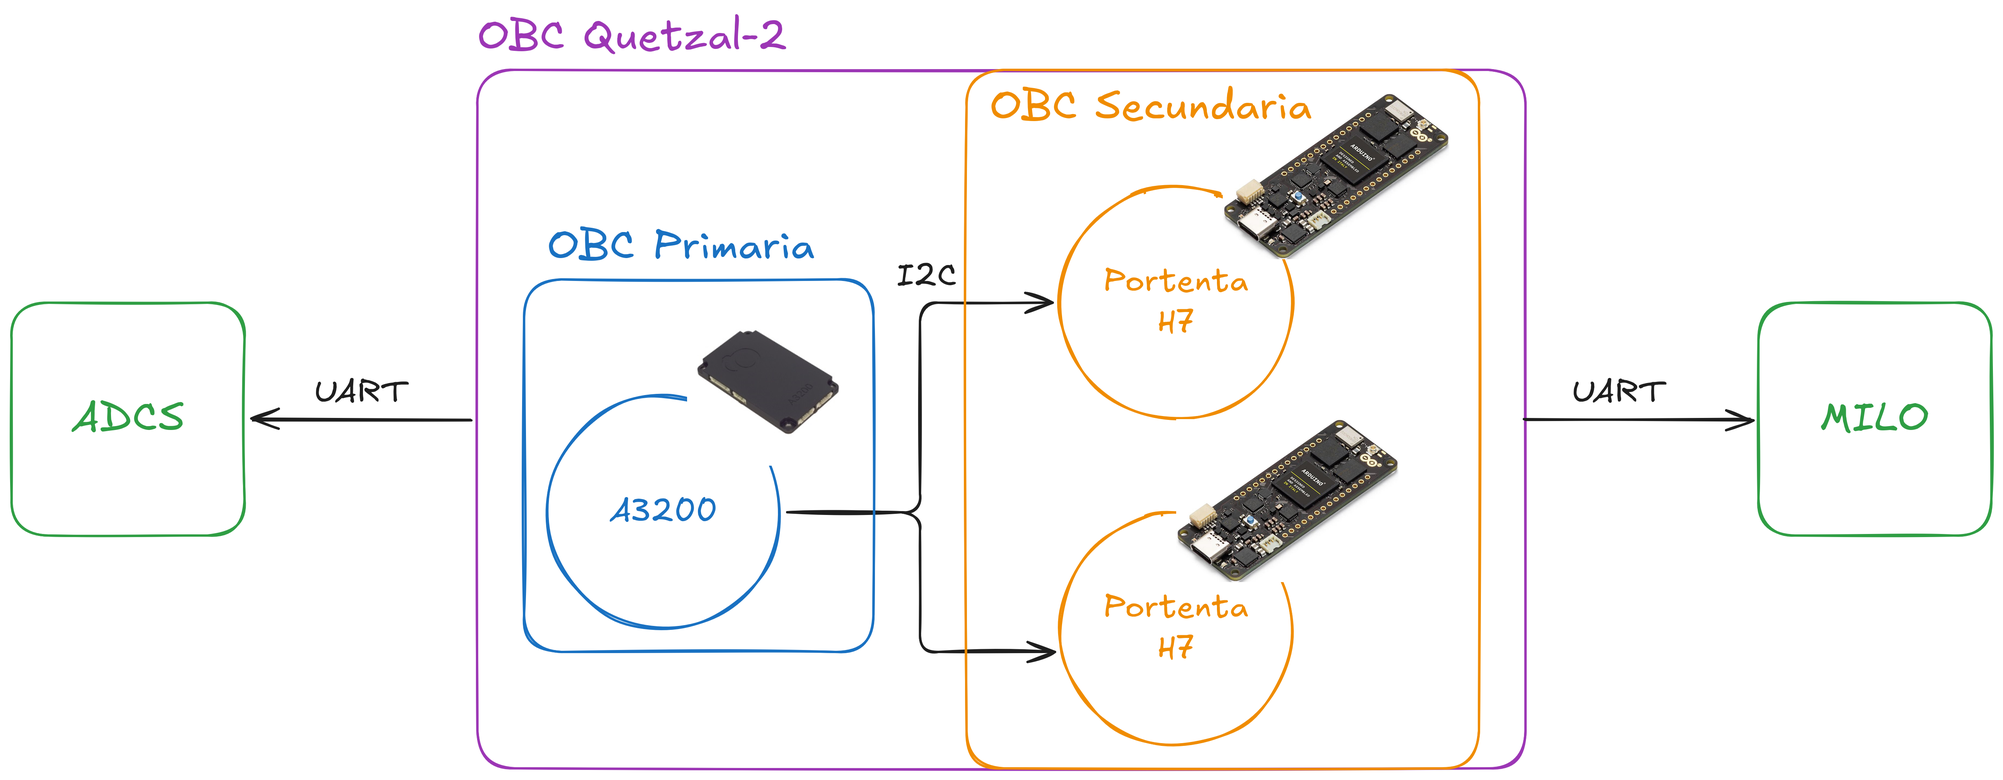
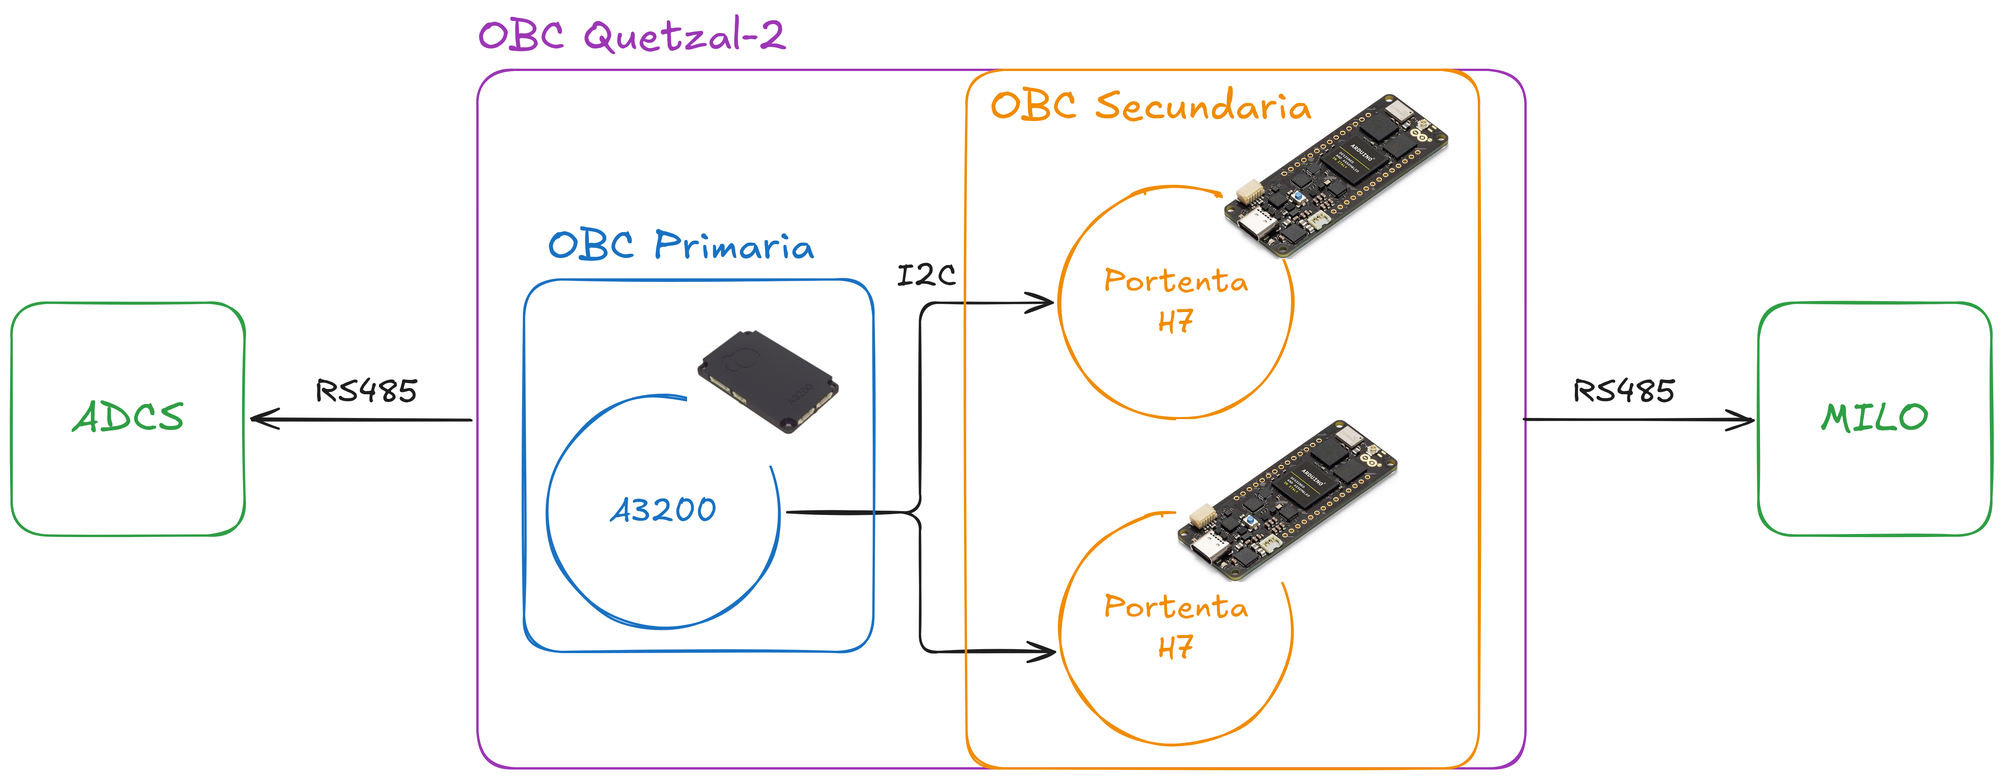
fix: kuk fixes

Changed region(s): [[0.468, 0.9871, 0.624, 1.0], [0.78, 0.4627, 0.8424, 0.5244], [0.156, 0.4627, 0.2184, 0.5244]]

diff --git a/src/latex/i-marco_teorico.tex b/src/latex/i-marco_teorico.tex
@@ -41,7 +41,7 @@ El Quetzal-2 (\ref{fig:prototype_quetzal2}) es el segundo proyecto aeroespacial 
   \item Una OBC que permite la comunicación entre todos estos subsistemas.
 \end{itemize}
 
-  En el caso de Quetzal-2, la OBC realmente se divide en 2, una principal y una secundaria. La OBC principal, es la misma que se utilizó en Quetzal-1, la Gomspace Nanomind A3200 \cite{ayerdi_2023}, esta computadora fue especialmente diseñada para misiones espaciales, como sensores integrados para control de altitud y protecciones especiales contra radiación \cite{gomspace_2026}.
+  En el caso de Quetzal-2, la OBC realmente se divide en 2, una principal y una secundaria. La OBC principal, es la misma que se utilizó en Quetzal-1, la Gomspace Nanomind A3200 \cite{ayerdi_2023}, esta computadora fue especialmente diseñada para misiones espaciales, como sensores integrados para control de actitud y protecciones especiales contra radiación \cite{gomspace_2026}.
 
   La OBC secundaria, la cual es diseñada localmente, está compuesta por una pareja de Portentas H7 Lite, ambas cuentan con dos cores de procesamiento y 8MB de SDRAM \cite{arduino_2026}. La OBC secundaria, al igual que la primaria, necesita gestionar la comunicación entre los distintos subsistemas, por lo que se le considera el cerebro del satélite \cite{lwabanji_wilkinson_biermann_bellville_2013} y según \cite{stras2003design} necesita cumplir con las siguientes tareas:
 \begin{itemize}
@@ -63,14 +63,14 @@ El Quetzal-2 (\ref{fig:prototype_quetzal2}) es el segundo proyecto aeroespacial 
   \label{fig:obc_components}
 \end{figure}
 
-  \section{Comunicación Serial: I2C y UART}
+  \section{Comunicación Serial: I2C y RS485}
 
   Existen varias interfaces seriales de comunicación que se pueden utilizar para la intercomunicación de microcontroladores, muchas aunque desarrolladas para una aplicación en específico se han vuelto universales, RS485 e I2C caen en esta categoría \cite{hung2020flexible}. Dentro del Quetzal-2 se utilizan estos dos protocolos para la comunicación interna entre sus subsistemas, RS485 es especialmente popular debido a que permite conectar múltiples puntos de control utilizando un bus serial, además de ser un protocolo de comunicación probado en producción por años lo que lo hace una opción segura cuanto menos \cite{sastry2015building}. Mientras que I2C facilita la comunicación entre microcontroladores utilizando un modelo de maestro esclavo, en donde solo el maestro puede iniciar la comunicación \cite{carletti2007comunicacion}.
 
   Dentro de Quetzal-2, los protocolos se utilizan para los siguientes propósitos:
 	\begin{itemize}
-\item {RS485: Comunica la OBC primaria y secundaria con el resto de subsistemas del satélite, es decir: \textit{Payload} MILO, \textit{ADCS}, \textit{ADM}, etc. Se utiliza el protocolo de \textit{hardware} UART para su implementación.}
-	\item {I2C: Se reserva únicamente para la comunicación entre la OBC primaria y la OBC secundaria, siendo la OBC primaria la maestra y la OBC secundaria la esclava. Esta decisión es clave para el funcionamiento de la arquitectura de \textit{handover}.}
+		\item {RS485: Comunica la OBC primaria y secundaria con el resto de subsistemas del satélite, es decir: \textit{Payload} MILO, \textit{ADCS}, \textit{EPS}, \textit{Payload} LORA, etc. Se utiliza el protocolo de \textit{hardware} UART para su implementación.}
+	\item {I2C: Se utiliza para la comunicación entre la OBC primaria y la OBC secundaria, siendo la OBC primaria la maestra y la OBC secundaria la esclava. Esta decisión es clave para el funcionamiento de la arquitectura de \textit{handover}.}
 	\end{itemize}
 
 \subsection{UART}
@@ -88,7 +88,7 @@ El Quetzal-2 (\ref{fig:prototype_quetzal2}) es el segundo proyecto aeroespacial 
 \end{figure}
 
   \subsection{RS485}
-  El protocolo RS485 se basa en el protocolo RS422, su principal ventaja con respecto a RS422 es que permite la conexión de hasta 32 dispositivos (tanto transmisores como receptores) mientras que RS422 solamente admite 10 receptores y un transmisor. RS485 hereda de RS422 su alta resistencia al ruido, ya que utiliza una corriente diferencial entre dos cables para transmitir la señal, cuya conexión se ve en la \ref{fig:rs485_pins}. Lo que significa que un byte que se transmite no es un pulso de corriente dentro de un solo cable, sino una diferencia de corriente entre ambas líneas de conexión del protocolo, el \ref{tab:rs485_truth_table} muestra una tabla de verdad con la entrada y cómo se transmite por los cables. Al protocolo solamente le interesa la diferencia entre ambas líneas, por lo que mientras pueda interpretar a una línea como 0 y a otra como 1 seguirá funcionando, lo que lo hace altamente resiliente a ruido \cite{sonnenberg2018serial}.
+  El protocolo RS485 se basa en el protocolo RS422, su principal ventaja con respecto a RS422 es que permite la conexión de hasta 32 dispositivos (tanto transmisores como receptores) mientras que RS422 solamente admite 10 receptores y un transmisor. RS485 hereda de RS422 su alta resistencia al ruido, ya que utiliza un voltaje diferencial entre dos cables para transmitir la señal, cuya conexión se ve en la \ref{fig:rs485_pins}. Lo que significa que un byte que se transmite no es un pulso de corriente dentro de un solo cable, sino una diferencia de corriente entre ambas líneas de conexión del protocolo, el \ref{tab:rs485_truth_table} muestra una tabla de verdad con la entrada y cómo se transmite por los cables. Al protocolo solamente le interesa la diferencia entre ambas líneas, por lo que mientras pueda interpretar a una línea como 0 y a otra como 1 seguirá funcionando, lo que lo hace altamente resiliente a ruido \cite{sonnenberg2018serial}.
 
   % #figure(
   %   image("./images/RS485_Pins.png"),
@@ -131,8 +131,8 @@ El Quetzal-2 (\ref{fig:prototype_quetzal2}) es el segundo proyecto aeroespacial 
   Al igual que RS485, I2C es un protocolo de comunicación serial entre dispositivos, la transmisión de datos es serial y sincrónica, lo que implica el paso de un pulso de reloj para sincronizar la salida y entrada de los datos entre los dispositivos. Requiere de dos líneas de conexión \cite{carletti2007comunicacion}:
 
 	\begin{itemize}
-\item {SDA (\textit{System Data}): Se utiliza para transmitir los datos entre los dispositivos.}
-  \item {SCL (\textit{System Clock}): Se utiliza para transmitir los pulsos del reloj. Sincronizando el sistema.}
+\item {SDA (\textit{Serial Data}): Se utiliza para transmitir los datos entre los dispositivos.}
+  \item {SCL (\textit{Serial Clock}): Se utiliza para transmitir los pulsos del reloj. Sincronizando el sistema.}
 	\end{itemize}
 
   Un ejemplo de conexión se puede apreciar en la \ref{fig:i2c_pins}.
@@ -184,7 +184,7 @@ El Quetzal-2 (\ref{fig:prototype_quetzal2}) es el segundo proyecto aeroespacial 
   \item {\textbf{Todos los ciclos deben tener un límite superior fijo}. Sin recursión, y con ciclos que siguen un límite fijo de iteraciones se previene en su totalidad rutinas que se ejecutan de forma indefinida. Esta regla no aplica para rutinas que deben ser forzosamente de terminación indeterminada, como la espera de nuevos comandos de la estación terrena (GCS por sus siglas en inglés).}
   \item {\textbf{No alojar memoria dinámica luego de la inicialización}. La alojación de memoria dinámica impacta negativamente en el rendimiento del sistema, además de que tiene un comportamiento notablemente difícil de predecir con análisis estático. Esta regla fuerza al programador a usar memoria estática alojada al declarar variables en el stack, si se combina con las reglas anteriores el código termina siendo legible y sencillo, lo que es excelente para analizadores estáticos que buscan probar que un programa se comportará como esperamos.}
   \item {\textbf{No más de 60 líneas de código por función}. Funciones extremadamente largas son una señal de código pobremente arquitecturizado.}
-  \item {\textbf{Cada función debe tener un promedio de dos \textit{assertions}}. La NASA recomienda utilizar aserciones en el código para probar condiciones de ejecución tanto antes como después de correr una función. Una aserción siempre revisa una condición, y detiene el programa en caso de que la condición no se cumpla, son especialmente útiles si se combinan con pruebas unitarias.}
+  \item {\textbf{Cada función debe tener un promedio de dos \textit{assertions}}. La NASA recomienda utilizar aserciones en el código para probar condiciones de ejecución tanto antes como después de correr una función. Una aserción siempre revisa una condición, en dado caso la condición falle se toma una acción de recuperación que se programó explícitamente para manejar este caso. Las aserciones deben ser libres de efectos secundarios.}
   \item {\textbf{Declara todos los objetos de tipo data en el tamaño mínimo posible de \textit{scope}}. Esta regla simplifica la depuración del código cuando ocurre una falla, puesto que es obvio que una variable que no se encuentra en el scope del código que falla no tiene ninguna relación con el error en sí. Por lo tanto queremos minimizar la cantidad de variables dentro del scope de cada rutina, limitando así, los lugares en donde se puede corromper estado y afectar en la ejecución de nuestro programa.}
   \item {\textbf{Todos los parámetros de retorno deben ser revisados por la función que los llamó}. \textbf{Todas las funciones deben revisar la validez de los parámetros proveídos}. Las interfaces con las que interactuamos los programadores están plagadas de funciones que puede que funcionen como esperamos o no, generalmente tienen una forma de reportar un error. Si una función debe ejecutarse solamente cuando el valor de retorno de otra función es exitoso, entonces es indispensable que este valor de retorno se revise, ese es el corazón de esta regla.}
   \item {\textbf{El uso del preprocesador de C debe estar limitado a inclusión de \textit{header files} y definiciones sencillas}. El preprocesador de C puede fácilmente ofuscar el código y confundir a analizadores estáticos, por lo que la NASA no recomienda su uso más allá de inclusiones sencillas.}
@@ -199,7 +199,7 @@ El Quetzal-2 (\ref{fig:prototype_quetzal2}) es el segundo proyecto aeroespacial 
 
   \subsubsection{Fuzzing}
 
-  Richard Hipp, uno de los creadores de SQLite, cuenta en su experiencia como desarrollador de este software que al alcanzar 100\% \textit{branch coverage}, dejó de recibir reportes de bugs de sus usuarios por varios años \cite{software_should_work_2026}. Para entender esta métrica es importante entender primero qué es una "rama". En programación se asume que todas las instrucciones ejecutan una luego de la otra, sin embargo esto no siempre es cierto, es común en aplicaciones que ciertas instrucciones sean ejecutadas solamente cuando ciertas condiciones se cumplen. Esto genera caminos de instrucciones por los que el procesador puede o no pasar, todo el conjunto de estos caminos generan un árbol de posibles ejecuciones del programa en donde, según qué condiciones se cumplan, el procesador ejecutará una rama u otra \cite{elmasry2013branchless}. La \ref{fig:branch_simple} demuestra cómo se vería este árbol de ejecución para un programa sencillo.
+  Richard Hipp, uno de los creadores de SQLite, cuenta en su experiencia como desarrollador de este software que al alcanzar 100\% \textit{branch coverage}, dejó de recibir reportes de bugs de sus usuarios por varios años \cite{software_should_work_2026}. Para entender esta métrica es importante entender primero qué es una "rama". En programación se asume que todas las instrucciones ejecutan una luego de la otra, sin embargo esto no siempre es cierto, es común en aplicaciones que ciertas instrucciones sean ejecutadas solamente cuando ciertas condiciones se cumplen. Esto genera bloques de instrucciones por los que el procesador puede o no pasar, todo el conjunto de estos bloques generan un árbol de posibles ejecuciones del programa en donde, según qué condiciones se cumplan, el procesador ejecutará una rama u otra \cite{elmasry2013branchless}. La \ref{fig:branch_simple} demuestra cómo se vería este árbol de ejecución para un programa sencillo.
 
   % #figure(
   %   image("./images/Ramas_Simple.png", width: 60%),
@@ -212,7 +212,7 @@ El Quetzal-2 (\ref{fig:prototype_quetzal2}) es el segundo proyecto aeroespacial 
   \label{fig:branch_simple}
 \end{figure}
 
-  Éste árbol es justamente lo que programas como AFL++ exploran y es la segunda estrategia que usaron en SQLite para aliviar los bugs \cite{software_should_work_2026}. Su objetivo es variar de forma automática varios inputs del programa, lo que a su vez varía las condicinoes de ejecución de ciertas ramas, reportando solamente las ramas que hacen que el programa crashee, lo que a su vez ayuda a descubrir caminos que rara vez son ejecutados normalmente \cite{bohme2020fuzzing}. Hay dos tipos principales de \textit{fuzzing}:
+  Éste árbol es justamente lo que programas como AFL++ exploran y es la segunda estrategia que usaron en SQLite para aliviar los bugs \cite{software_should_work_2026}. Su objetivo es variar de forma automática varios inputs del programa, lo que a su vez varía las condicinoes de ejecución de ciertas ramas, reportando solamente las ramas que hacen que el programa falle alguno de los chequeos que el programador defina, lo que a su vez ayuda a descubrir caminos que rara vez son ejecutados normalmente \cite{bohme2020fuzzing}. Hay dos tipos principales de \textit{fuzzing}:
 	\begin{itemize}
 \item Mutacional: La campaña de fuzzing inicia con varias "semillas". Luego estas semillas son modificadas para generar nuevas entradas al programa.
 		\item Generacional: Las entradas son generadas desde 0, si se especifica un formato entonces se generan entradas que cumplan ese formato. Solamente las entradas que más profundo lleguen a explorar el sistema son evolucionadas a la siguiente ronda \cite{bohme2020fuzzing}.

diff --git a/src/latex/j-capitulos.tex b/src/latex/j-capitulos.tex
@@ -313,3 +313,30 @@ Esta arquitectura de la \ref{fig:hexagonal_arch} nos permitió varias bondades:
   \caption{\textit{Coverage Report} del fuzzing del core de la OBC.}
   \label{fig:obc_coverage}
 \end{figure}
+
+\newpage
+\chapter{Discusión de Resultados}
+Como se puede apreciar en la \ref{fig:laptop_test}, se realiza el camino sin errores de una rutina de handover completa, desde que la OBC primaria solicita el traslado de poder, pasando por el inicio de la tarea de MILO en donde se toma la fotografía y finalizando con el comando de abortar de la OBC primaria.
+
+Toda esa rutina se ejecutó dentro de un ambiente simulado en la computadora, y cada una de las respuestas y acciones que decidía tomar la OBC secundaria fue analizada por la prueba, solamente retornando éxito si todos los comandos recibidos y enviados seguían la especificación del protocolo interno. Es decir, la prueba revisó que luego de recibir el comando \texttt{BEGIN\_HANDOVER} desde la computadora principal, la OBC secundaria respondiera con \texttt{BEGIN\_HANDOVER\_ACK}. No solo se limitó a revisar el estado, sino que además revisa cada uno de los \textit{bytes} de la respuesta y el largo configurado por el \textit{buffer} de salida.
+
+Nótese el cambio de estados dentro de la OBC secundaria que se puede apreciar en los \textit{logs}, iniciando en \texttt{IDLE} para transicionar a \texttt{HANDOVER\_IDLE} y finalmente a \texttt{IDLE} de nuevo. Estos son los estados principales de la OBC secundaria, mientras que el estado interno de la tarea es \texttt{MILO\_UNSTARTED}. La combinación de estos dos estados (\texttt{IDLE}, \texttt{MILO\_UNSTARTED}) representan el modo de operación de arranque dentro del Producto Mínimo Viable (MVP por sus siglas en inglés) de la OBC secundaria. Para luego transicionar al estado nominal (\texttt{HANDOVER\_IDLE}, \texttt{MILO\_UNSTARTED}), para finalmente llegar al estado de toma de fotografía (\texttt{HANDOVER\_IDLE}, \texttt{MILO\_BEGIN}). La \ref{fig:obc_states} muestra en forma de diagrama estas transiciones:
+
+% #figure(
+%   image("./images/OBC_States.png", width: 80%),
+%   caption: [Estados de la OBC secundaria de estados finitos.]
+% ) <obc_states>
+\begin{figure}[htbp]
+  \centering
+  \includegraphics[width=0.8\linewidth]{./images/OBC_States.png}
+  \caption{Estados de la OBC secundaria de estados finitos.}
+  \label{fig:obc_states}
+\end{figure}
+
+Esta es la prueba principal que se implementó, pero gracias a la arquitectura hexagonal se tiene la posibilidad de implementar muchas más que prueben casos más extraños, o simplemente probar casos de error que permitan asegurar que la OBC fallará de una manera predecible cuando se cumplan ciertas condiciones. Esto es parte de las opciones de \textit{testing} que se vieron en el capítulo \ref{sec:reliability}.
+
+Además, se utilizó AFL++ para implementar un \textit{fuzzer} básico de la rutina principal de la OBC secundaria (\ref{fig:obc_fuzzing}), en la imagen en cuestión se puede apreciar que el \textit{fuzzer} lleva corriendo apenas 3 segundos pero ya corrió más de 8900 veces la rutina principal. De las cuales ha encontrado 3 nuevas aristas pero no ha encontrado \textit{crashes} todavía. El \textit{harness} programado para esta sesión de \textit{fuzzing} es limitado, de hecho podemos ver en \ref{fig:obc_coverage} que este \textit{harness} no es particularmente bueno, puesto que solamente 5 de 180 ramas que componen la rutina principal fueron invocadas durante esta sesión. Lo cual es esperado debido a que el \textit{harness} configurado para esta prueba es una prueba de concepto, su función principal es validar que la arquitectura efectivamente se puede utilizar para pruebas avanzadas de código que verifiquen su fiabilidad.
+
+El que la prueba mostrada en la \ref{fig:laptop_test} tenga un resultado satisfactorio no significa que la OBC secundaria funcione, puesto que es un ambiente simulado dentro de la misma computadora. Por esto se realizaron pruebas con implementaciones reales de las interfaces, las cuales se pueden ver en la \ref{fig:handover_test} y la \ref{fig:command_reception}. En esta prueba se intentó solamente la comunicación entre los dos módulos de la OBC, primaria y secundaria. Como se puede ver en los \textit{logs}, la comunicación fue satisfactoria y se logró llegar al último comando de aborto del protocolo de handover.
+
+Finalmente, en la \ref{fig:milo_picture} se puede apreciar la fotografía de una prueba final con todos los subsistemas conectados utilizando las implementaciones reales de las interfaces de comunicación. La imagen se encuentra borrosa debido a la configuración de la cámara, ya que se tenía en baja calidad para limitar la cantidad de espacio que cada fotografía consumía al ser almacenada y transmitida dentro del sistema. Para ese punto de las pruebas lo importante no era la calidad de las fotografías sino que el sistema pudiera tomarla de forma autónoma.

diff --git a/src/latex/k-conclusiones.tex b/src/latex/k-conclusiones.tex
@@ -5,29 +5,3 @@
   \item Se desarrolló un producto mínimo viable del sistema de \textit{handover} entre las dos OBCs del satélite (\ref{fig:command_reception}).
 \end{itemize}
 
-\newpage
-\chapter{Discusión de Resultados}
-Como se puede apreciar en la \ref{fig:laptop_test}, se realiza el camino sin errores de una rutina de handover completa, desde que la OBC primaria solicita el traslado de poder, pasando por el inicio de la tarea de MILO en donde se toma la fotografía y finalizando con el comando de abortar de la OBC primaria.
-
-Toda esa rutina se ejecutó dentro de un ambiente simulado en la computadora, y cada una de las respuestas y acciones que decidía tomar la OBC secundaria fue analizada por la prueba, solamente retornando éxito si todos los comandos recibidos y enviados seguían la especificación del protocolo interno. Es decir, la prueba revisó que luego de recibir el comando \texttt{BEGIN\_HANDOVER} desde la computadora principal, la OBC secundaria respondiera con \texttt{BEGIN\_HANDOVER\_ACK}. No solo se limitó a revisar el estado, sino que además revisa cada uno de los \textit{bytes} de la respuesta y el largo configurado por el \textit{buffer} de salida.
-
-Nótese el cambio de estados dentro de la OBC secundaria que se puede apreciar en los \textit{logs}, iniciando en \texttt{IDLE} para transicionar a \texttt{HANDOVER\_IDLE} y finalmente a \texttt{IDLE} de nuevo. Estos son los estados principales de la OBC secundaria, mientras que el estado interno de la tarea es \texttt{MILO\_UNSTARTED}. La combinación de estos dos estados (\texttt{IDLE}, \texttt{MILO\_UNSTARTED}) representan el modo de operación de arranque dentro del Producto Mínimo Viable (MVP por sus siglas en inglés) de la OBC secundaria. Para luego transicionar al estado nominal (\texttt{HANDOVER\_IDLE}, \texttt{MILO\_UNSTARTED}), para finalmente llegar al estado de toma de fotografía (\texttt{HANDOVER\_IDLE}, \texttt{MILO\_BEGIN}). La \ref{fig:obc_states} muestra en forma de diagrama estas transiciones:
-
-% #figure(
-%   image("./images/OBC_States.png", width: 80%),
-%   caption: [Estados de la OBC secundaria de estados finitos.]
-% ) <obc_states>
-\begin{figure}[htbp]
-  \centering
-  \includegraphics[width=0.8\linewidth]{./images/OBC_States.png}
-  \caption{Estados de la OBC secundaria de estados finitos.}
-  \label{fig:obc_states}
-\end{figure}
-
-Esta es la prueba principal que se implementó, pero gracias a la arquitectura hexagonal se tiene la posibilidad de implementar muchas más que prueben casos más extraños, o simplemente probar casos de error que permitan asegurar que la OBC fallará de una manera predecible cuando se cumplan ciertas condiciones. Esto es parte de las opciones de \textit{testing} que se vieron en el capítulo \ref{sec:reliability}.
-
-Además, se utilizó AFL++ para implementar un \textit{fuzzer} básico de la rutina principal de la OBC secundaria (\ref{fig:obc_fuzzing}), en la imagen en cuestión se puede apreciar que el \textit{fuzzer} lleva corriendo apenas 3 segundos pero ya corrió más de 8900 veces la rutina principal. De las cuales ha encontrado 3 nuevas aristas pero no ha encontrado \textit{crashes} todavía. El \textit{harness} programado para esta sesión de \textit{fuzzing} es limitado, de hecho podemos ver en \ref{fig:obc_coverage} que este \textit{harness} no es particularmente bueno, puesto que solamente 5 de 180 ramas que componen la rutina principal fueron invocadas durante esta sesión. Lo cual es esperado debido a que el \textit{harness} configurado para esta prueba es una prueba de concepto, su función principal es validar que la arquitectura efectivamente se puede utilizar para pruebas avanzadas de código que verifiquen su fiabilidad.
-
-El que la prueba mostrada en la \ref{fig:laptop_test} tenga un resultado satisfactorio no significa que la OBC secundaria funcione, puesto que es un ambiente simulado dentro de la misma computadora. Por esto se realizaron pruebas con implementaciones reales de las interfaces, las cuales se pueden ver en la \ref{fig:handover_test} y la \ref{fig:command_reception}. En esta prueba se intentó solamente la comunicación entre los dos módulos de la OBC, primaria y secundaria. Como se puede ver en los \textit{logs}, la comunicación fue satisfactoria y se logró llegar al último comando de aborto del protocolo de handover.
-
-Finalmente, en la \ref{fig:milo_picture} se puede apreciar la fotografía de una prueba final con todos los subsistemas conectados utilizando las implementaciones reales de las interfaces de comunicación. La imagen se encuentra borrosa debido a la configuración de la cámara, ya que se tenía en baja calidad para limitar la cantidad de espacio que cada fotografía consumía al ser almacenada y transmitida dentro del sistema. Para ese punto de las pruebas lo importante no era la calidad de las fotografías sino que el sistema pudiera tomarla de forma autónoma.
